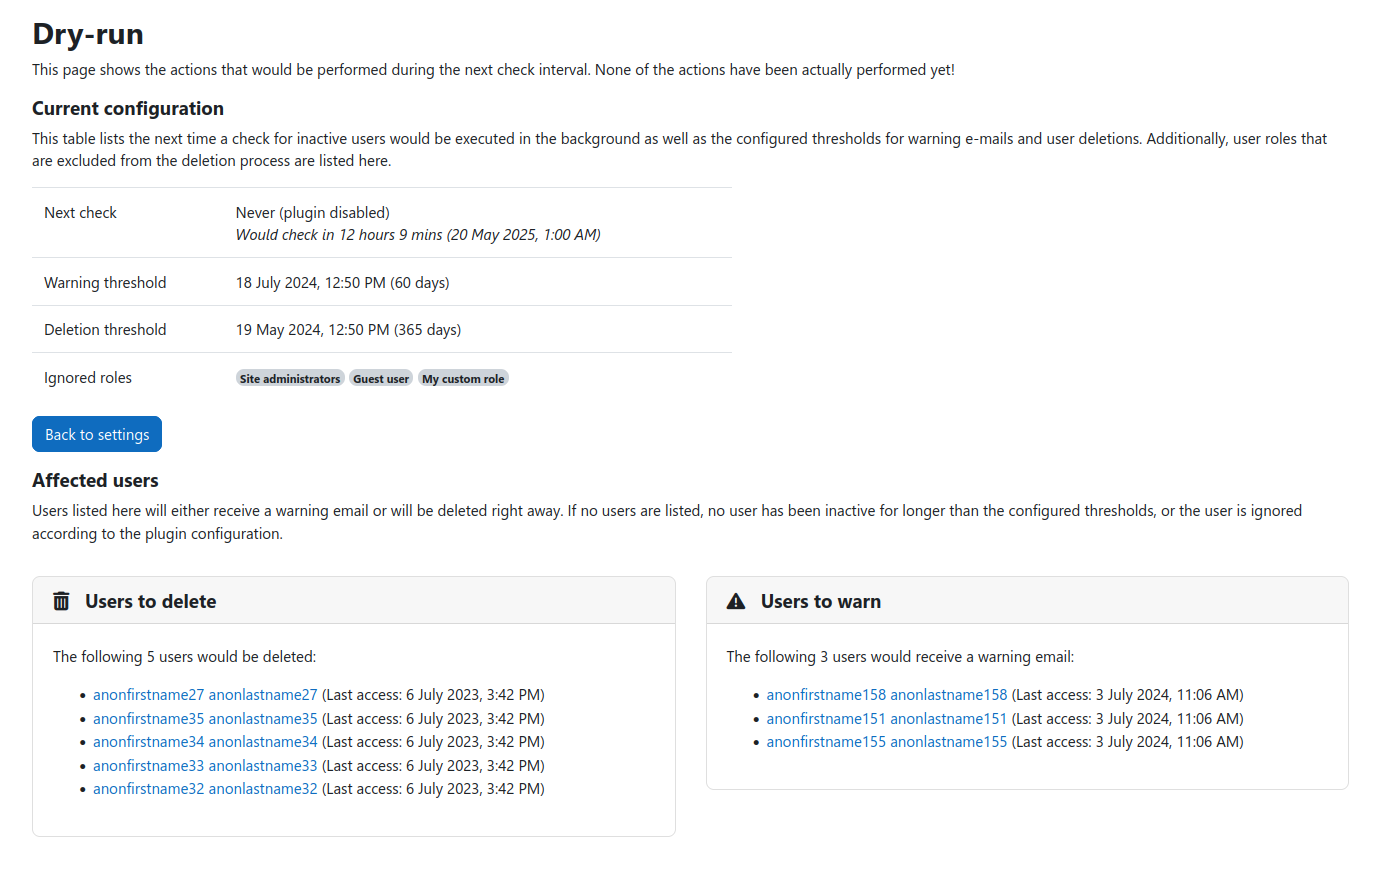
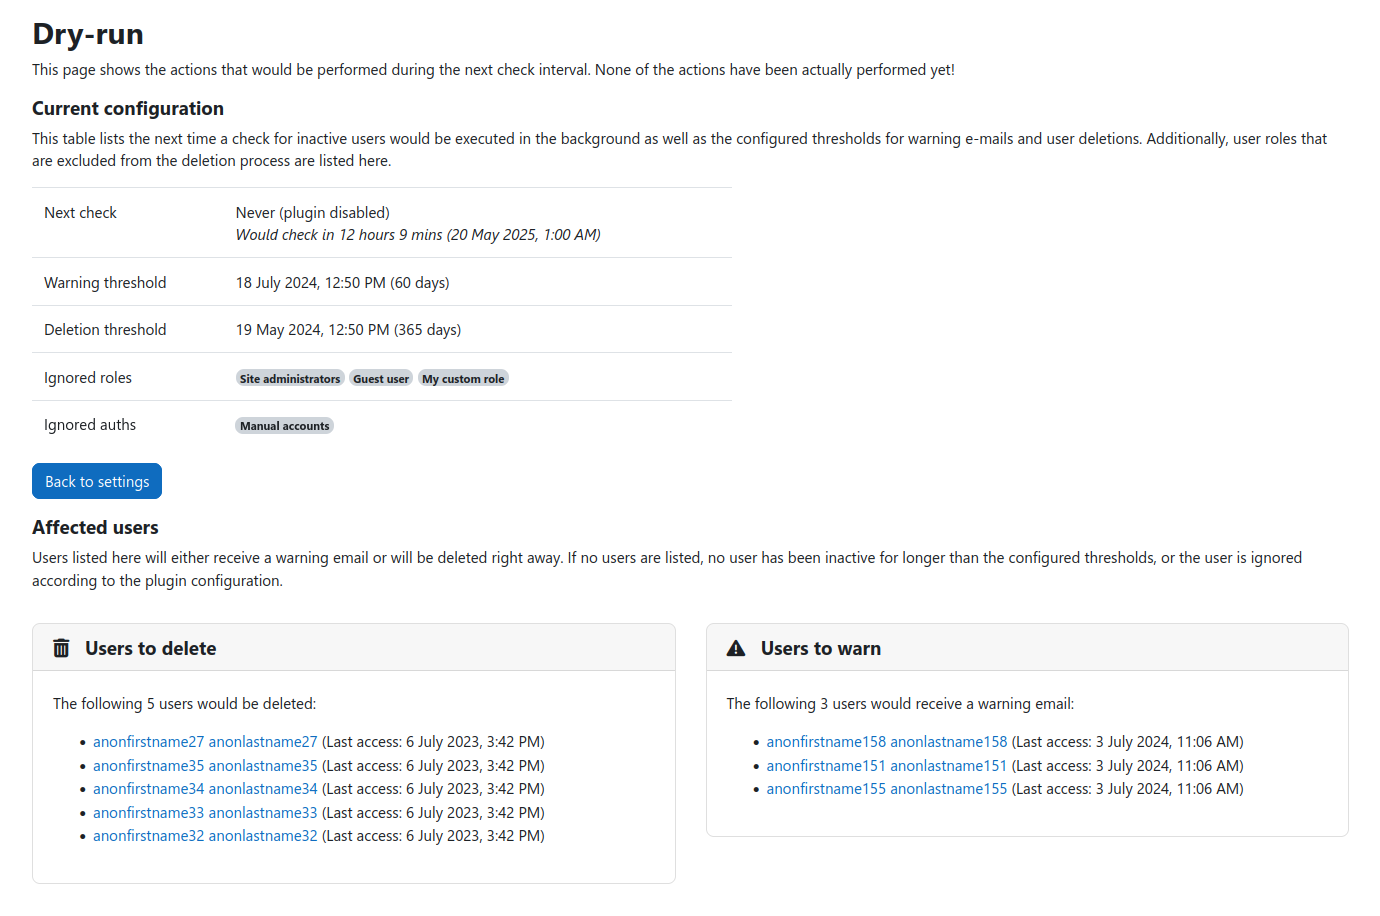
Update user docs and changelog

diff --git a/README.md b/README.md
@@ -33,6 +33,7 @@ The automatic user deletion plugin plugin is available via the [Moodle plugin di
 - Sending warning emails to users before deletion
 - GDPR-compliant deletion of user accounts
 - Ignoring users with specific roles
+- Ignore specific authentication plugins
 - Dry-run mode for testing the configuration
 - Highly configurable (deletion and warning thresholds, email templates, enabling/disabling of single features, etc.)
 - Logging of deletion events
@@ -101,13 +102,19 @@ _User deletion_ section.
 
 ### Ignoring specific users
 
-The plugin supports excluding users based on their role assignments. This means that a user that has a specific role
+The plugin supports excluding users based on their **role assignments**. This means that a user that has a specific role
 assigned to them will never be deleted nor receive any inactivity warning mails. Note that global site admins are always
 excluded from deletion.
 
 To exclude users with specific roles, mark the desired role in the _Ignored roles_ selector (1) and save your changes.
 
 ![Plugin settings: Ignored roles](docs/assets/screenshots/settings_ignored_roles.png)
+
+This plugin furthermore allows you to exclude all users that use a specified **authentication plugin**. To exclude users
+with a specific authentication method mark the desired authentication plugins in the _Ignored auths_ selector (2) and
+save your changes.
+
+![Plugin settings: Ignored auths](docs/assets/screenshots/settings_ignored_auths.png)
 
 
 ### Performing a dry-run

diff --git a/CHANGELOG.md b/CHANGELOG.md
@@ -1,5 +1,11 @@
 # Changelog
 
+## Version X.Y.Z (YYYYMMDDXX)
+
+- Allow to ignore users based on their authentication method (e.g., ignore all users authenticated via LDAP)
+- Show ignored auth plugins on dry-run page
+
+
 ## Version 1.2.1 (2025082500)
 
 - Fix translations on log page (thanks to @jboulen)
